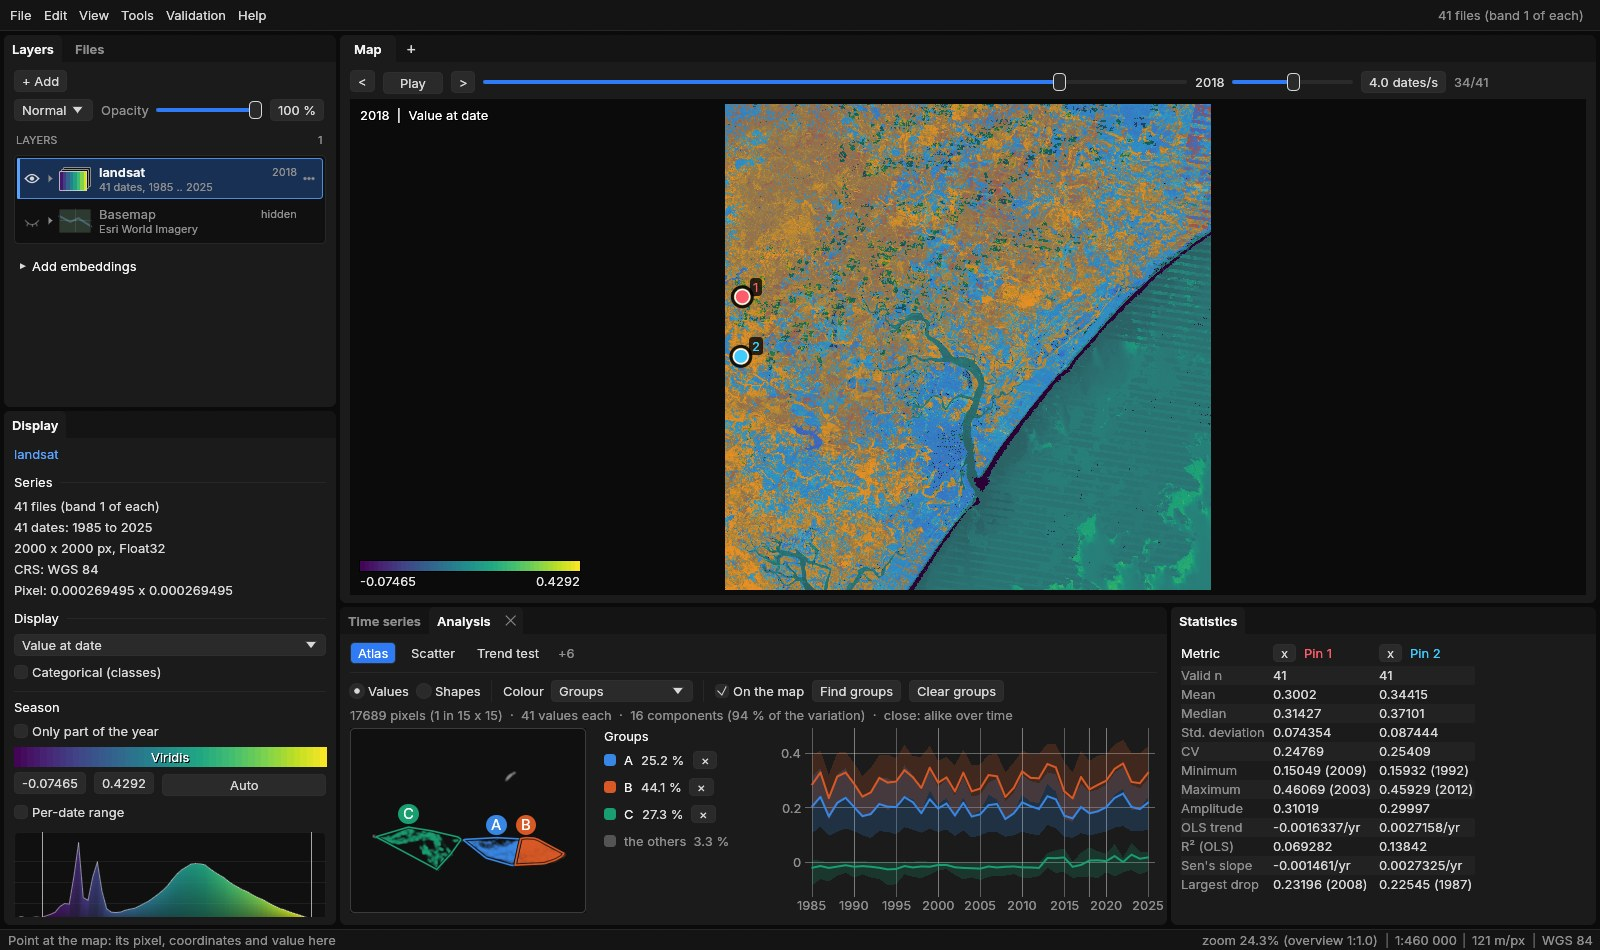
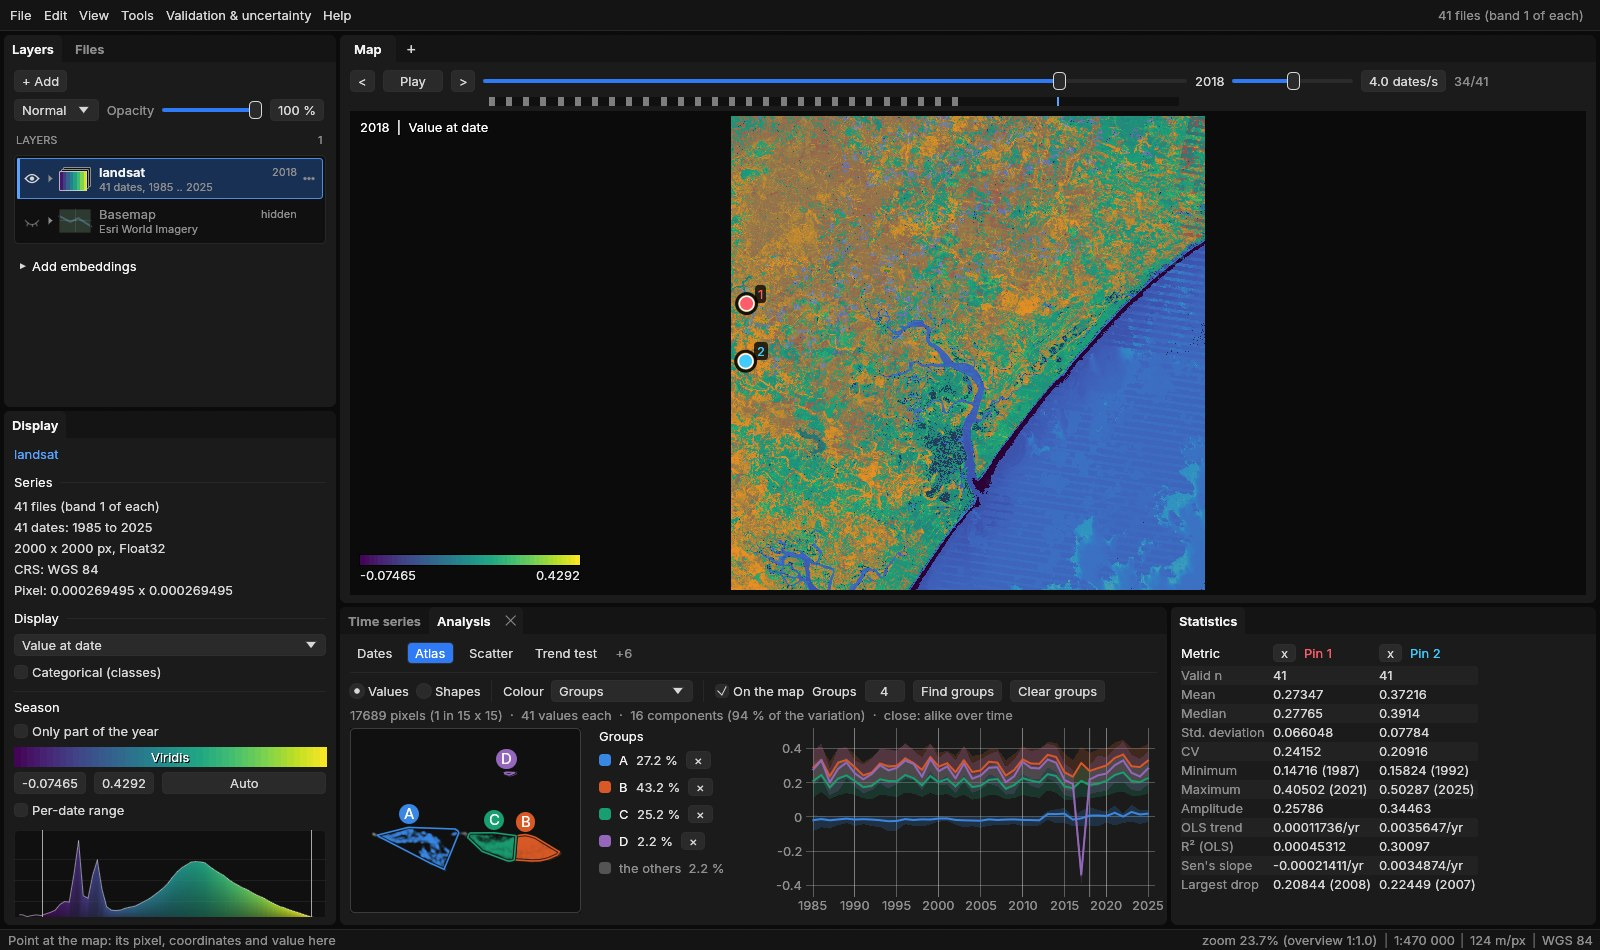
IDEIAS: phase 10, the calculator's own reader and the layout audit; the website's Atlas with Groups set to 4

diff --git a/site/visualize.html b/site/visualize.html
@@ -144,8 +144,8 @@
       <h2><span class="n">06</span>Atlas</h2>
       <p>The Atlas puts every pixel's series in one picture. Pixels that behaved alike over time land close together in a plane, so each cluster is a kind of behaviour of the place: a forest, a crop, water, a clearing. The plane is linked to the map both ways.</p>
       <figure class="fig">
-        <a href="assets/img/visualize/04-atlas.jpg"><img src="assets/img/visualize/04-atlas.jpg" alt="Janus with the Landsat series of Sergipe and Alagoas at 2018: the map coloured by three groups (blue, orange, green on the sea and the river), and in the Analysis panel the Atlas tab with the plane of points and three groups drawn around clusters, their shares (A 25.2%, B 44.1%, C 27.3%, others 3.3%) and their curves from 1985 to 2025." width="1600" height="950" loading="lazy"></a>
-        <figcaption><b>41 years, three behaviours.</b> 17,689 pixels laid out (one in 15 × 15), the groups drawn around clusters of the plane and coloured on the map. C (green) is the sea and the river, near 0 every year; A (blue) and B (orange) are two kinds of land, B greener. Each group's curve is its mean, with the range of its pixels (10th to 90th percentile) shaded.</figcaption>
+        <a href="assets/img/visualize/04-atlas.jpg"><img src="assets/img/visualize/04-atlas.jpg" alt="Janus with the Landsat series of Sergipe and Alagoas at 2018: the map coloured by four groups (blue on the sea and the river, orange and green on the land), and in the Analysis panel the Atlas tab with Groups set to 4, the plane of points with the four groups found, their shares (A 27.2%, B 43.2%, C 25.2%, D 2.2%, others 2.2%) and their curves from 1985 to 2025." width="1600" height="950" loading="lazy"></a>
+        <figcaption><b>41 years, four behaviours.</b> 17,689 pixels laid out (one in 15 × 15), Groups set to 4 and Find groups pressed, the groups coloured on the map. A (blue) is the sea and the river, near 0 every year; B (orange) and C (green) are two kinds of land, B greener; D (purple), a few pixels apart in the plane, drops sharply in 2016. Each group's curve is its mean, with the range of its pixels (10th to 90th percentile) shaded.</figcaption>
       </figure>
       <ol class="steps">
         <li><b>Sample</b>Up to 20,000 pixels on a grid of the ROI or the image, each series as its values at every date (gaps filled linearly from the dates around them).</li>

diff --git a/IDEIAS.md b/IDEIAS.md
@@ -1705,11 +1705,88 @@ para ver mais de um ao mesmo tempo nem desacoplar um "puxando ele para fora".
   arrastada para fora, com a classe 3 renomeada; o resto em camadas, 7 no
   grupo, as 8 visíveis).
 
-**Próximos (pedidos em 2026-11-03, em sub-agentes, cada um num worktree)**: a
-fase 10 do plano de novas ferramentas (área ± IC por transição e estimadores de
-diferença e razão, Zeit e Janus); o avaliador próprio da calculadora (ler os
-arquivos da série direto, sem o VRT e a trava do pool do GDAL); os achados que
-restam da auditoria de layout.
+### Fase 10, o leitor da calculadora e a auditoria do layout (2026-11-03, sem versão)
+Pedido do usuário depois da 1.10.0: "Fechar a v1.10.0 […] A fase 10 do plano […]
+O avaliador próprio da calculadora […] A auditoria de layout […] pode usar
+sub-agentes para as fases diferentes". Três sub-agentes, cada um num worktree e
+nos seus núcleos (3 + 3 + 2, oito no total); as branches rebaseadas sobre a
+main, sem conflito a não ser os blocos do autoteste (240-249 e 250-258). A CI da
+1.10.0 (build da tag e da main, site) passou, e o release tem os três
+instaladores.
+
+**Fase 10 — Transições entre duas datas e estimadores assistidos por modelo.**
+A área de cada transição i→j entre dois mapas de classes (duas datas de uma
+série categórica) com IC, pela amostra estratificada (Olofsson et al. 2014;
+Stehman 2014: os estratos não precisam ser as transições). A referência de cada
+ponto em cada data vem do rótulo e dos seus eventos datados, e a área mapeada
+de cada transição é contada pixel a pixel dentro dos estratos. Os estimadores
+direto, de diferença e de razão (Stehman 2013; McRoberts et al. 2018) ficam à
+escolha no projeto; com estratos diferentes do mapa, os assistidos por modelo
+estreitam os intervalos das mudanças raras. Estão em `crates/janus-validation`
+(AreaEstimator, mapped_transitions, transitions.rs), no
+`zeit.accuracy(estimator=)` e no novo `zeit.transitions`, na aba Accuracy
+(combo do estimador, tabela de transições com ± IC), no relatório (seção e
+`transitions.csv`) e no Copy Python. Batem com o pacote survey 4.5 do R como
+caixa-preta a 1e-10 (`make_survey_fixtures.R`, `tests/survey_parity.rs`,
+`test_accuracy_survey.py`). Autoteste 240-244.
+- O Zeit era mais lento que o R no próprio benchmark (0,73-0,85 s contra
+  0,42-0,51 s, 2048² px): cada etapa relia os três rasters pelo dask (os
+  unique, os pontos, um `(codes == c).sum` por transição). Agora um mapa de
+  classes inteiras de até 2^26 px é lido uma vez para a memória e contado com
+  poucos bincount (classes, pares em int32, pixels por estrato e linha), sem a
+  cópia float com NaN; os maiores seguem preguiçosos. 0,18-0,21 s contra
+  0,40-0,48 s do survey + terra (1,9-2,7×), os mesmos números a 7,6e-15; no
+  4096² em memória, de 1,3-1,9 s para 0,57-0,83 s (o Janus conta em 0,22 s; o
+  resto do caminho seria Rust no zeit-core). `accuracy`, `sampling_design` e
+  `stratified_sample` ganham igual.
+- Janus 3874a7e, 28cf5e4, 2625ac9, 9e26048; Zeit 6c07a13, c7e198c, cd9f969.
+
+**O leitor próprio da calculadora (calc::eval).** Os VRTs da calculadora passam
+a ser lidos pelo próprio Janus, direto dos arquivos de cada data, sem o VRT do
+GDAL no meio (o pool de datasets sob um lock do processo e o XML a cada
+leitura). Os valores são os do GDAL bit a bit: as janelas das fontes
+(GetSrcDstWindow), o no data e a escala (VRTComplexSource) e a leitura pelos
+blocos com vizinho mais próximo foram portados à risca. Uma leitura que só
+amostra pixels da grade é feita em partes de blocos inteiros dos arquivos, cada
+bloco lido por uma só thread, nas threads de processamento (oito no máximo).
+Vale para o mapa, o gráfico, os pins, o Live, os estágios gravados em GeoTIFF e
+os COGs (agora calculados uma vez, não duas). O GDAL continua lendo o que não é
+coberto (arquivo na rede, outro tipo de VRT). De propósito, uma banda de uma só
+fonte com overviews, vista de longe, agora mostra a expressão (o GDAL mostrava
+a overview do arquivo: `x * 2` como `x`). Nas 107 datas do guia, com 3 threads:
+a contagem no mapa de 2,6 s para 0,8 s, a série de um pin de 1,1 s para 0,09 s,
+a mediana gravada como COG de 3,7 s para 1,1 s; contra o xarray, as reduções
+2,9 a 12 vezes mais rápidas (a parte do spyndex não foi refeita: o spyndex não
+está instalado aqui). O que mais pesava: a busca de overviews do GDAL em cada
+abertura de cada thread (~400 ms), agora uma vez por VRT. Testes em
+`tests/calc_eval.rs` (12 pedidos contra GDALRasterIOEx, todo tipo de fonte) e
+autoteste 250-251. Resta: o calc_eval imprime "ERROR 5 … Illegal band #" do GDAL
+ao sair (um VRT reprojetado fechando; o teste passa). 66b40ce, 80a52cb.
+
+**Auditoria do layout polida.** O texto cortado de propósito, com o texto
+inteiro no hover, agora é marcado onde é desenhado (`cut_on_purpose`,
+`fit::truncated`, `fit::cell`) e não entra no relatório; acabou o palpite da
+menor fonte, que escondia cortes reais. Um achado só conta quando duas passadas
+seguidas o mostram, as passadas descartadas são puladas e a sobreposição é
+comparada linha a linha. Layers passa a ser auditado em todos os tamanhos.
+Consertos nas fontes grandes e nos painéis estreitos:
+- as linhas da Análise (Datas, Sazonal, Dispersão, Bandas, Atlas), a barra do
+  gráfico e as Classes do teste de tendência quebram um widget por vez
+  (`fit::wrap_before`);
+- os gráficos têm pelo menos oito linhas de altura; o plano do Atlas nunca tem
+  altura negativa (era um panic em debug) e o texto de progresso quebra;
+- as legendas das Datas usam a fonte da interface; o filtro de Files e o campo
+  do Go to são tão largos quanto a dica; a paleta mostra 12 linhas;
+- o selo de Layers some antes de cobrir o nome, e os nomes cortados aparecem
+  inteiros no hover.
+No tour das fontes em s2ro, de 10 a 28 px: de 24 para 0 achados (modern) e de 35
+para 0 (classic). Fica de fora o ponto cego das abas do dock, que rolam na
+horizontal (o que passa da largura não é cobrado ali: a árvore de Files, as
+colunas de Statistics, a Help). 7a945cd.
+
+Verificação na main juntada: fmt e clippy do workspace limpos, testes de
+janus-app, janus-cube e janus-validation passando, autoteste da interface
+completo (release, 8 threads) `OK (43.7 s)`.
 
 ### Produto
 - "Atualizar Zeit" dentro do app (baixa a wheel nova para o runtime privado).
